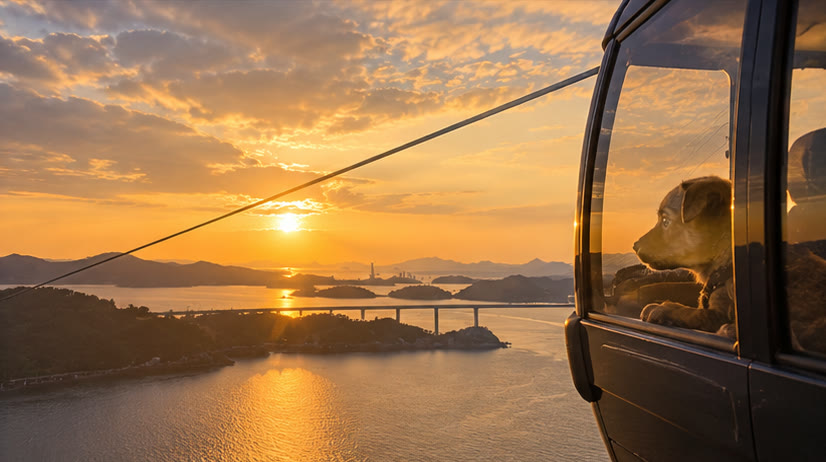
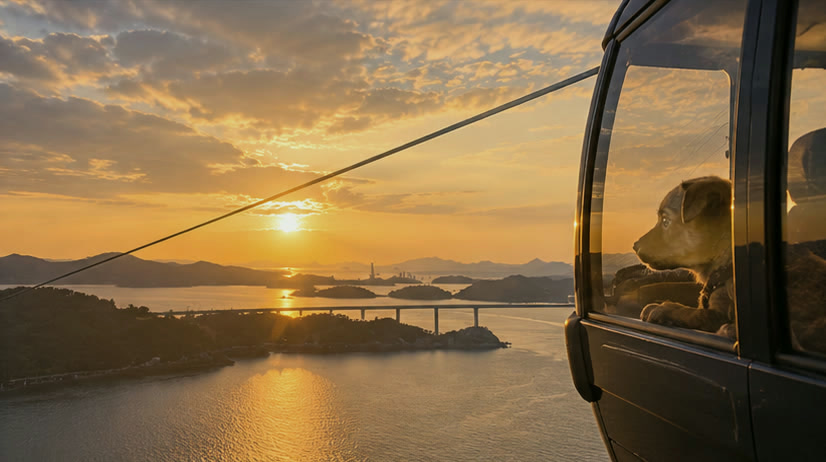
fix: bake page 8 image filters and use solid caption band for print

diff --git a/src/pages/08-time-blending/TimeBlendingPage.module.css b/src/pages/08-time-blending/TimeBlendingPage.module.css
@@ -38,8 +38,8 @@
 .tb-slot { position: relative; margin: 0; overflow: hidden; background: #0d0e0d; }
 .tb-slot--photo { aspect-ratio: 22 / 23; }
 .tb-slot--wide { aspect-ratio: 16 / 9; }
-.tb-slot img { display: block; width: 100%; height: 100%; object-fit: cover; filter: saturate(.86) brightness(.92); }
-.tb-slot figcaption { position: absolute; right: 0; bottom: 0; left: 0; padding: 4mm 1.8mm 1.4mm; background: linear-gradient(transparent, rgb(9 10 9 / 85%)); color: rgb(236 236 230 / 86%); font-size: 6.2pt; }
+.tb-slot img { display: block; width: 100%; height: 100%; object-fit: cover; } /* 채도·밝기는 인쇄 호환을 위해 이미지에 미리 적용 */
+.tb-slot figcaption { position: absolute; right: 0; bottom: 0; left: 0; padding: 4mm 1.8mm 1.4mm; background: rgb(9 10 9 / 72%); color: rgb(236 236 230 / 86%); font-size: 6.2pt; }
 .tb-slot__pending {
   display: grid;
   place-content: center;
